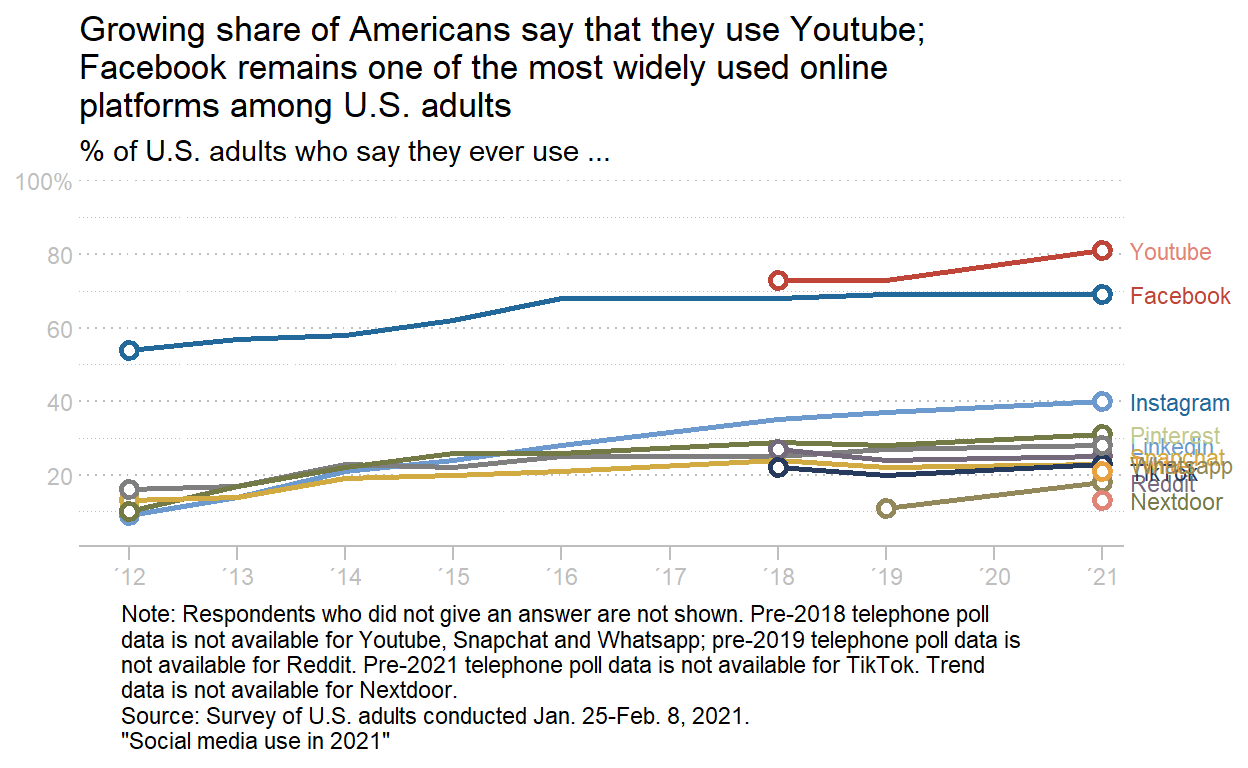
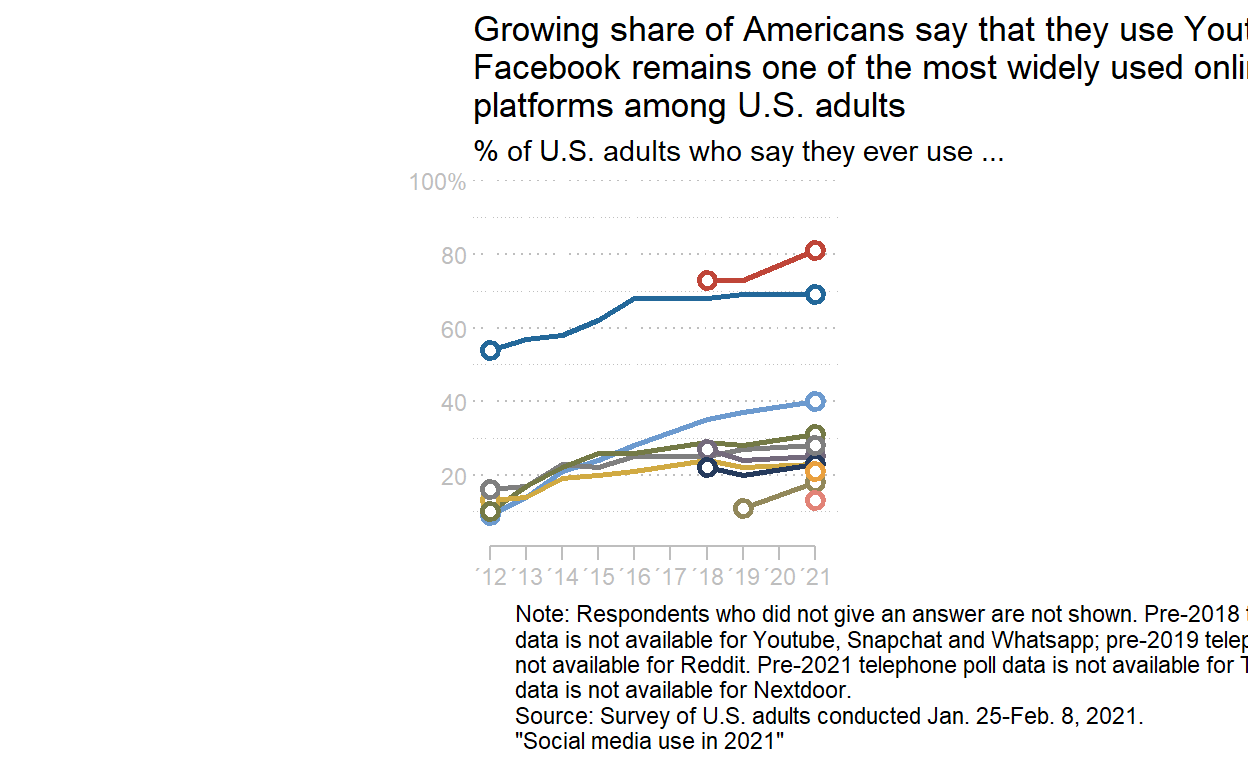
Fixed aspect, text adjustments, deleted gghighlight, capped axis.

diff --git a/projects/2022/100385774/index.html b/projects/2022/100385774/index.html
@@ -96,8 +96,8 @@ code span.wa { color: #5e5e5e; font-style: italic; } /* Warning */
 <link rel="license" href="https://creativecommons.org/licenses/by/4.0/"/>
 
 <!--  https://schema.org/Article -->
-<meta property="article:published" itemprop="datePublished" content="2022-12-30"/>
-<meta property="article:created" itemprop="dateCreated" content="2022-12-30"/>
+<meta property="article:published" itemprop="datePublished" content="2023-01-02"/>
+<meta property="article:created" itemprop="dateCreated" content="2023-01-02"/>
 <meta name="article:author" content="Álvaro Sanz"/>
 
 <!--  https://developers.facebook.com/docs/sharing/webmasters#markup -->
@@ -124,14 +124,14 @@ code span.wa { color: #5e5e5e; font-style: italic; } /* Warning */
 <meta name="citation_title" content="Data visualization | MSc CSS: Social Media Use in 2021"/>
 <meta name="citation_fulltext_html_url" content="https://csslab.uc3m.es/dataviz/projects/2022/100385774/"/>
 <meta name="citation_fulltext_world_readable" content=""/>
-<meta name="citation_online_date" content="2022/12/30"/>
-<meta name="citation_publication_date" content="2022/12/30"/>
+<meta name="citation_online_date" content="2023/01/02"/>
+<meta name="citation_publication_date" content="2023/01/02"/>
 <meta name="citation_author" content="Álvaro Sanz"/>
 <!--/radix_placeholder_meta_tags-->
   <!--radix_placeholder_rmarkdown_metadata-->
 
 <script type="text/json" id="radix-rmarkdown-metadata">
-{"type":"list","attributes":{"names":{"type":"character","attributes":{},"value":["creative_commons","title","description","categories","author","date","output","citation_url","canonical_url"]}},"value":[{"type":"character","attributes":{},"value":["CC BY"]},{"type":"character","attributes":{},"value":["Social Media Use in 2021"]},{"type":"character","attributes":{},"value":["% of adults using each social media."]},{"type":"character","attributes":{},"value":["2022"]},{"type":"list","attributes":{},"value":[{"type":"list","attributes":{"names":{"type":"character","attributes":{},"value":["name"]}},"value":[{"type":"character","attributes":{},"value":["Álvaro Sanz"]}]}]},{"type":"character","attributes":{},"value":["2022-12-30"]},{"type":"list","attributes":{"names":{"type":"character","attributes":{},"value":["distill::distill_article"]}},"value":[{"type":"list","attributes":{"names":{"type":"character","attributes":{},"value":["self_contained","toc"]}},"value":[{"type":"logical","attributes":{},"value":[false]},{"type":"logical","attributes":{},"value":[true]}]}]},{"type":"character","attributes":{},"value":["https://csslab.uc3m.es/dataviz/projects/2022/100385774/"]},{"type":"character","attributes":{},"value":["https://csslab.uc3m.es/dataviz/projects/2022/100385774/"]}]}
+{"type":"list","attributes":{"names":{"type":"character","attributes":{},"value":["creative_commons","title","description","categories","author","date","output","citation_url","canonical_url"]}},"value":[{"type":"character","attributes":{},"value":["CC BY"]},{"type":"character","attributes":{},"value":["Social Media Use in 2021"]},{"type":"character","attributes":{},"value":["% of adults using each social media."]},{"type":"character","attributes":{},"value":["2022"]},{"type":"list","attributes":{},"value":[{"type":"list","attributes":{"names":{"type":"character","attributes":{},"value":["name"]}},"value":[{"type":"character","attributes":{},"value":["Álvaro Sanz"]}]}]},{"type":"character","attributes":{},"value":["2023-01-02"]},{"type":"list","attributes":{"names":{"type":"character","attributes":{},"value":["distill::distill_article"]}},"value":[{"type":"list","attributes":{"names":{"type":"character","attributes":{},"value":["self_contained","toc"]}},"value":[{"type":"logical","attributes":{},"value":[false]},{"type":"logical","attributes":{},"value":[true]}]}]},{"type":"character","attributes":{},"value":["https://csslab.uc3m.es/dataviz/projects/2022/100385774/"]},{"type":"character","attributes":{},"value":["https://csslab.uc3m.es/dataviz/projects/2022/100385774/"]}]}
 </script>
 <!--/radix_placeholder_rmarkdown_metadata-->
   
@@ -2446,7 +2446,7 @@ d-appendix d-footnote-list a.footnote-backlink {
 <!--radix_placeholder_front_matter-->
 
 <script id="distill-front-matter" type="text/json">
-{"title":"Social Media Use in 2021","description":"% of adults using each social media.","authors":[{"author":"Álvaro Sanz","authorURL":"#","affiliation":"&nbsp;","affiliationURL":"#","orcidID":""}],"publishedDate":"2022-12-30T00:00:00.000+01:00","citationText":"Sanz, 2022"}
+{"title":"Social Media Use in 2021","description":"% of adults using each social media.","authors":[{"author":"Álvaro Sanz","authorURL":"#","affiliation":"&nbsp;","affiliationURL":"#","orcidID":""}],"publishedDate":"2023-01-02T00:00:00.000+01:00","citationText":"Sanz, 2023"}
 </script>
 
 <!--/radix_placeholder_front_matter-->
@@ -2490,7 +2490,7 @@ d-appendix d-footnote-list a.footnote-backlink {
   
   Álvaro Sanz
   
-<br/>2022-12-30
+<br/>2023-01-02
 </div>
 
 <div class="d-article">
@@ -2498,14 +2498,17 @@ d-appendix d-footnote-list a.footnote-backlink {
 <nav class="l-text toc figcaption" id="TOC">
 <h3>Contents</h3>
 <ul>
-<li><a href="#introduction" id="toc-introduction">Introduction</a></li>
+<li><a href="#introduction" id="toc-introduction">Introduction</a>
+<ul>
+<li><a href="#level-2-heading-example" id="toc-level-2-heading-example">Level 2 heading example</a></li>
+</ul></li>
 <li><a href="#getting-the-data" id="toc-getting-the-data">Getting the data</a></li>
 <li><a href="#chart-construction" id="toc-chart-construction">Chart construction</a></li>
 </ul>
 </nav>
 </div>
 <h1 id="introduction">Introduction</h1>
-<p>##Level 2 heading example</p>
+<h2 id="level-2-heading-example">Level 2 heading example</h2>
 <h1 id="getting-the-data">Getting the data</h1>
 <div class="layout-chunk" data-layout="l-body">
 <div class="sourceCode">
@@ -2559,9 +2562,10 @@ d-appendix d-footnote-list a.footnote-backlink {
 <span>    axis.line.x.bottom <span class='op'>=</span> <span class='fu'><a href='https://ggplot2.tidyverse.org/reference/element.html'>element_line</a></span><span class='op'>(</span>color<span class='op'>=</span><span class='st'>"grey"</span><span class='op'>)</span>,</span>
 <span>    axis.ticks.length <span class='op'>=</span> <span class='fu'><a href='https://rdrr.io/r/grid/unit.html'>unit</a></span><span class='op'>(</span><span class='fl'>0</span>, <span class='st'>"pt"</span><span class='op'>)</span>,</span>
 <span>    axis.ticks.length.x.bottom <span class='op'>=</span> <span class='fu'><a href='https://rdrr.io/r/grid/unit.html'>unit</a></span><span class='op'>(</span><span class='fl'>5</span>, <span class='st'>"pt"</span><span class='op'>)</span>,</span>
-<span>    plot.caption <span class='op'>=</span> <span class='fu'><a href='https://ggplot2.tidyverse.org/reference/element.html'>element_text</a></span><span class='op'>(</span>hjust <span class='op'>=</span> <span class='fl'>0</span><span class='op'>)</span></span>
+<span>    plot.caption <span class='op'>=</span> <span class='fu'><a href='https://ggplot2.tidyverse.org/reference/element.html'>element_text</a></span><span class='op'>(</span>hjust <span class='op'>=</span> <span class='fl'>0</span><span class='op'>)</span>,</span>
+<span>    aspect.ratio <span class='op'>=</span> <span class='fl'>1</span><span class='op'>/</span><span class='fl'>1</span></span>
 <span>  <span class='op'>)</span> <span class='op'>+</span></span>
-<span>  <span class='fu'>gghighlight</span><span class='fu'>::</span><span class='fu'><a href='https://yutannihilation.github.io/gghighlight/reference/gghighlight.html'>gghighlight</a></span><span class='op'>(</span>use_direct_label <span class='op'>=</span> <span class='cn'>T</span>, line_label_type <span class='op'>=</span> <span class='st'>"sec_axis"</span><span class='op'>)</span> <span class='op'>+</span></span>
+<span>  <span class='co'>#gghighlight::gghighlight(use_direct_label = T, line_label_type = "sec_axis") +</span></span>
 <span>  <span class='fu'><a href='https://ggplot2.tidyverse.org/reference/labs.html'>labs</a></span><span class='op'>(</span>title <span class='op'>=</span> <span class='st'>"Growing share of Americans say that they use Youtube; </span></span>
 <span><span class='st'>Facebook remains one of the most widely used online </span></span>
 <span><span class='st'>platforms among U.S. adults"</span>,</span>
@@ -2572,7 +2576,8 @@ d-appendix d-footnote-list a.footnote-backlink {
 <span><span class='st'>       not available for Reddit. Pre-2021 telephone poll data is not available for TikTok. Trend</span></span>
 <span><span class='st'>       data is not available for Nextdoor.</span></span>
 <span><span class='st'>       Source: Survey of U.S. adults conducted Jan. 25-Feb. 8, 2021. </span></span>
-<span><span class='st'>       "Social media use in 2021"'</span><span class='op'>)</span></span></code></pre>
+<span><span class='st'>       "Social media use in 2021"'</span><span class='op'>)</span> <span class='op'>+</span></span>
+<span>  <span class='fu'><a href='https://rdrr.io/pkg/lemon/man/coord_capped.html'>coord_capped_cart</a></span><span class='op'>(</span>bottom <span class='op'>=</span> <span class='st'>'both'</span><span class='op'>)</span></span></code></pre>
 </div>
 <p><img src="100385774_files/figure-html5/unnamed-chunk-2-1.png" width="624" /></p>
 </div>
@@ -2595,13 +2600,13 @@ d-appendix d-footnote-list a.footnote-backlink {
   <p>Text and figures are licensed under Creative Commons Attribution <a rel="license" href="https://creativecommons.org/licenses/by/4.0/">CC BY 4.0</a>. The figures that have been reused from other sources don't fall under this license and can be recognized by a note in their caption: "Figure from ...".</p>
   <h3 id="citation">Citation</h3>
   <p>For attribution, please cite this work as</p>
-  <pre class="citation-appendix short">Sanz (2022, Dec. 30). Data visualization | MSc CSS: Social Media Use in 2021. Retrieved from https://csslab.uc3m.es/dataviz/projects/2022/100385774/</pre>
+  <pre class="citation-appendix short">Sanz (2023, Jan. 2). Data visualization | MSc CSS: Social Media Use in 2021. Retrieved from https://csslab.uc3m.es/dataviz/projects/2022/100385774/</pre>
   <p>BibTeX citation</p>
-  <pre class="citation-appendix long">@misc{sanz2022social,
+  <pre class="citation-appendix long">@misc{sanz2023social,
   author = {Sanz, Álvaro},
   title = {Data visualization | MSc CSS: Social Media Use in 2021},
   url = {https://csslab.uc3m.es/dataviz/projects/2022/100385774/},
-  year = {2022}
+  year = {2023}
 }</pre>
 </div>
 <!--/radix_placeholder_appendices-->

diff --git a/_projects/2022/100385774/100385774.html b/_projects/2022/100385774/100385774.html
@@ -94,8 +94,8 @@ code span.wa { color: #5e5e5e; font-style: italic; } /* Warning */
 
 
   <!--  https://schema.org/Article -->
-  <meta property="article:published" itemprop="datePublished" content="2022-12-30"/>
-  <meta property="article:created" itemprop="dateCreated" content="2022-12-30"/>
+  <meta property="article:published" itemprop="datePublished" content="2023-01-02"/>
+  <meta property="article:created" itemprop="dateCreated" content="2023-01-02"/>
   <meta name="article:author" content="Álvaro Sanz"/>
 
   <!--  https://developers.facebook.com/docs/sharing/webmasters#markup -->
@@ -113,7 +113,7 @@ code span.wa { color: #5e5e5e; font-style: italic; } /* Warning */
   <!--radix_placeholder_rmarkdown_metadata-->
 
   <script type="text/json" id="radix-rmarkdown-metadata">
-  {"type":"list","attributes":{"names":{"type":"character","attributes":{},"value":["title","description","categories","author","date","output"]}},"value":[{"type":"character","attributes":{},"value":["Social Media Use in 2021"]},{"type":"character","attributes":{},"value":["% of adults using each social media.\n"]},{"type":"character","attributes":{},"value":["2022"]},{"type":"list","attributes":{},"value":[{"type":"list","attributes":{"names":{"type":"character","attributes":{},"value":["name"]}},"value":[{"type":"character","attributes":{},"value":["Álvaro Sanz"]}]}]},{"type":"character","attributes":{},"value":["2022-12-30"]},{"type":"list","attributes":{"names":{"type":"character","attributes":{},"value":["distill::distill_article"]}},"value":[{"type":"list","attributes":{"names":{"type":"character","attributes":{},"value":["self_contained","toc"]}},"value":[{"type":"logical","attributes":{},"value":[false]},{"type":"logical","attributes":{},"value":[true]}]}]}]}
+  {"type":"list","attributes":{"names":{"type":"character","attributes":{},"value":["title","description","categories","author","date","output"]}},"value":[{"type":"character","attributes":{},"value":["Social Media Use in 2021"]},{"type":"character","attributes":{},"value":["% of adults using each social media.\n"]},{"type":"character","attributes":{},"value":["2022"]},{"type":"list","attributes":{},"value":[{"type":"list","attributes":{"names":{"type":"character","attributes":{},"value":["name"]}},"value":[{"type":"character","attributes":{},"value":["Álvaro Sanz"]}]}]},{"type":"character","attributes":{},"value":["2023-01-02"]},{"type":"list","attributes":{"names":{"type":"character","attributes":{},"value":["distill::distill_article"]}},"value":[{"type":"list","attributes":{"names":{"type":"character","attributes":{},"value":["self_contained","toc"]}},"value":[{"type":"logical","attributes":{},"value":[false]},{"type":"logical","attributes":{},"value":[true]}]}]}]}
   </script>
   <!--/radix_placeholder_rmarkdown_metadata-->
   
@@ -1496,7 +1496,7 @@ code span.wa { color: #5e5e5e; font-style: italic; } /* Warning */
 <!--radix_placeholder_front_matter-->
 
 <script id="distill-front-matter" type="text/json">
-{"title":"Social Media Use in 2021","description":"% of adults using each social media.","authors":[{"author":"Álvaro Sanz","authorURL":"#","affiliation":"&nbsp;","affiliationURL":"#","orcidID":""}],"publishedDate":"2022-12-30T00:00:00.000+01:00","citationText":"Sanz, 2022"}
+{"title":"Social Media Use in 2021","description":"% of adults using each social media.","authors":[{"author":"Álvaro Sanz","authorURL":"#","affiliation":"&nbsp;","affiliationURL":"#","orcidID":""}],"publishedDate":"2023-01-02T00:00:00.000+01:00","citationText":"Sanz, 2023"}
 </script>
 
 <!--/radix_placeholder_front_matter-->
@@ -1519,7 +1519,7 @@ code span.wa { color: #5e5e5e; font-style: italic; } /* Warning */
   
   Álvaro Sanz
   
-<br/>2022-12-30
+<br/>2023-01-02
 </div>
 
 <div class="d-article">
@@ -1527,14 +1527,17 @@ code span.wa { color: #5e5e5e; font-style: italic; } /* Warning */
 <nav class="l-text toc figcaption" id="TOC">
 <h3>Contents</h3>
 <ul>
-<li><a href="#introduction" id="toc-introduction">Introduction</a></li>
+<li><a href="#introduction" id="toc-introduction">Introduction</a>
+<ul>
+<li><a href="#level-2-heading-example" id="toc-level-2-heading-example">Level 2 heading example</a></li>
+</ul></li>
 <li><a href="#getting-the-data" id="toc-getting-the-data">Getting the data</a></li>
 <li><a href="#chart-construction" id="toc-chart-construction">Chart construction</a></li>
 </ul>
 </nav>
 </div>
 <h1 id="introduction">Introduction</h1>
-<p>##Level 2 heading example</p>
+<h2 id="level-2-heading-example">Level 2 heading example</h2>
 <h1 id="getting-the-data">Getting the data</h1>
 <div class="layout-chunk" data-layout="l-body">
 <div class="sourceCode">
@@ -1588,9 +1591,10 @@ code span.wa { color: #5e5e5e; font-style: italic; } /* Warning */
 <span>    axis.line.x.bottom <span class='op'>=</span> <span class='fu'><a href='https://ggplot2.tidyverse.org/reference/element.html'>element_line</a></span><span class='op'>(</span>color<span class='op'>=</span><span class='st'>"grey"</span><span class='op'>)</span>,</span>
 <span>    axis.ticks.length <span class='op'>=</span> <span class='fu'><a href='https://rdrr.io/r/grid/unit.html'>unit</a></span><span class='op'>(</span><span class='fl'>0</span>, <span class='st'>"pt"</span><span class='op'>)</span>,</span>
 <span>    axis.ticks.length.x.bottom <span class='op'>=</span> <span class='fu'><a href='https://rdrr.io/r/grid/unit.html'>unit</a></span><span class='op'>(</span><span class='fl'>5</span>, <span class='st'>"pt"</span><span class='op'>)</span>,</span>
-<span>    plot.caption <span class='op'>=</span> <span class='fu'><a href='https://ggplot2.tidyverse.org/reference/element.html'>element_text</a></span><span class='op'>(</span>hjust <span class='op'>=</span> <span class='fl'>0</span><span class='op'>)</span></span>
+<span>    plot.caption <span class='op'>=</span> <span class='fu'><a href='https://ggplot2.tidyverse.org/reference/element.html'>element_text</a></span><span class='op'>(</span>hjust <span class='op'>=</span> <span class='fl'>0</span><span class='op'>)</span>,</span>
+<span>    aspect.ratio <span class='op'>=</span> <span class='fl'>1</span><span class='op'>/</span><span class='fl'>1</span></span>
 <span>  <span class='op'>)</span> <span class='op'>+</span></span>
-<span>  <span class='fu'>gghighlight</span><span class='fu'>::</span><span class='fu'><a href='https://yutannihilation.github.io/gghighlight/reference/gghighlight.html'>gghighlight</a></span><span class='op'>(</span>use_direct_label <span class='op'>=</span> <span class='cn'>T</span>, line_label_type <span class='op'>=</span> <span class='st'>"sec_axis"</span><span class='op'>)</span> <span class='op'>+</span></span>
+<span>  <span class='co'>#gghighlight::gghighlight(use_direct_label = T, line_label_type = "sec_axis") +</span></span>
 <span>  <span class='fu'><a href='https://ggplot2.tidyverse.org/reference/labs.html'>labs</a></span><span class='op'>(</span>title <span class='op'>=</span> <span class='st'>"Growing share of Americans say that they use Youtube; </span></span>
 <span><span class='st'>Facebook remains one of the most widely used online </span></span>
 <span><span class='st'>platforms among U.S. adults"</span>,</span>
@@ -1601,7 +1605,8 @@ code span.wa { color: #5e5e5e; font-style: italic; } /* Warning */
 <span><span class='st'>       not available for Reddit. Pre-2021 telephone poll data is not available for TikTok. Trend</span></span>
 <span><span class='st'>       data is not available for Nextdoor.</span></span>
 <span><span class='st'>       Source: Survey of U.S. adults conducted Jan. 25-Feb. 8, 2021. </span></span>
-<span><span class='st'>       "Social media use in 2021"'</span><span class='op'>)</span></span></code></pre>
+<span><span class='st'>       "Social media use in 2021"'</span><span class='op'>)</span> <span class='op'>+</span></span>
+<span>  <span class='fu'><a href='https://rdrr.io/pkg/lemon/man/coord_capped.html'>coord_capped_cart</a></span><span class='op'>(</span>bottom <span class='op'>=</span> <span class='st'>'both'</span><span class='op'>)</span></span></code></pre>
 </div>
 <p><img src="100385774_files/figure-html5/unnamed-chunk-2-1.png" width="624" /></p>
 </div>
